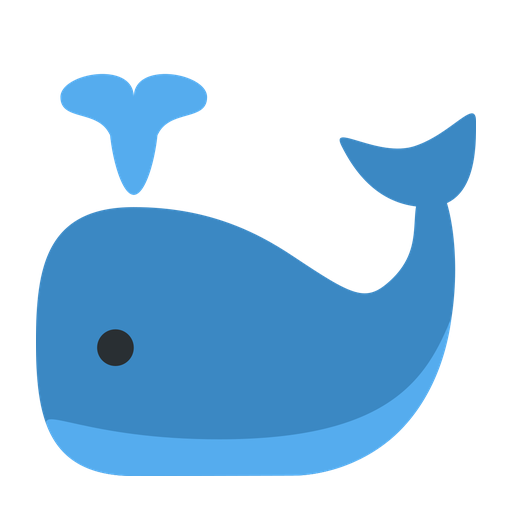
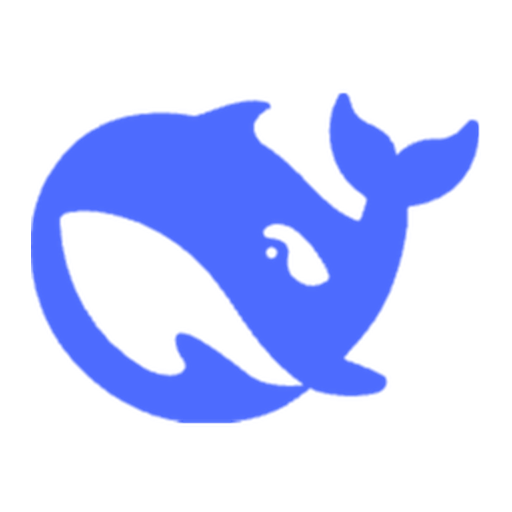
v0.6.2：换 DeepSeek 鲸鱼形象，修 hide 接口与启动露头

diff --git a/main.py b/main.py
@@ -154,7 +154,7 @@ ASSET_CANDIDATES = [
     os.path.join(HERE, "assets", "鱼搭子.png"),  # 本地自用
 ]
 
-VERSION = "0.6.1"
+VERSION = "0.6.2"
 BALL = 132          # 鲸鱼直径
 SAMPLE_RATE = 16000
 MAX_RECORD = 30.0
@@ -1536,6 +1536,9 @@ def start_reply_server(on_text, on_open_settings=None, on_show=None, on_hide=Non
             if path == "/show" and on_show:
                 on_show()
                 return self._send({"ok": True, "说": "挂件出来了"})
+            if path == "/hide" and on_hide:
+                on_hide()
+                return self._send({"ok": True, "说": "挂件藏起来了"})
             n = int(self.headers.get("content-length") or 0)
             raw = self.rfile.read(n) if n else b"{}"
             try:
@@ -1670,7 +1673,9 @@ def main():
         threading.Thread(target=run_test, daemon=True).start()
 
     whale.apply_display_mode(os.environ.get("FISH_TEST_MODE") or whale.settings.get("形象", "image"))
-    if not whale.settings.get("挂件", True):
+    if whale.settings.get("挂件", True):
+        whale.apply_widget_enabled(True)      # 显式露头一次，避免"配置勾了却没显示"
+    else:
         whale.apply_widget_enabled(False)
 
     if os.environ.get("FISH_TEST_REC"):

diff --git a/README.md b/README.md
@@ -15,7 +15,7 @@
 
 > 这是把「桌面上养一只会陪你说话的鲸鱼」在 macOS 上**从零做一套**：挂件（本仓库）+ 它自己的 DSH 插件（`plugin/`）。
 > 不依赖原版 `dsh-fish-buddy`，也不含它的任何代码或图片素材。
-> 形象用的是 [Twemoji](https://github.com/jdecked/twemoji) 的 🐳（CC-BY 4.0，见 [THIRD-PARTY.md](THIRD-PARTY.md)）。
+> 形象用的是 DeepSeek 的标志鲸鱼（**非官方项目**，商标归 DeepSeek；详见 [THIRD-PARTY.md](THIRD-PARTY.md)）。
 
 ```
         ┌─────────────────┐
@@ -174,7 +174,7 @@ macOS 不提供"查询所有 App 占用的快捷键"的接口，所以这层是*
 | 素材形象 | 极简圆点 |
 |---|---|
 | ![](assets/whale.png) | ![](assets/dot.png) |
-| 128px 的鲸鱼（Twemoji 🐳，CC-BY 4.0） | 36px 的纯色小圆点，**没有光晕**；说话时会轻微放大 |
+| 128px 的鲸鱼（DeepSeek 标志，见下方说明） | 36px 的纯色小圆点（DeepSeek 蓝 #4D6BFE），**没有光晕**；说话时会轻微放大 |
 
 想换成自己的图就覆盖 `assets/whale.png` / `assets/dot.png`；
 `:python tools/make_assets.py` 会重新生成圆点（鲸鱼需要 `cairosvg` 从 `assets/whale.svg` 转）。
@@ -279,8 +279,8 @@ assets/                  whale.png / dot.png / whale.svg（都是自己画的）
 
 本仓库的代码（挂件 + 插件）用 [MIT](LICENSE)。
 
-形象素材来自 [Twemoji](https://github.com/jdecked/twemoji) 🐳 `1f433`，
-版权归 Twitter, Inc and other contributors，按 [CC-BY 4.0](https://creativecommons.org/licenses/by/4.0/) 使用；
-我们对它做了缩放与留白。完整声明见 [THIRD-PARTY.md](THIRD-PARTY.md)。
+**形象不是 MIT**：`assets/whale.png` 是 DeepSeek 官方标志里的鲸鱼，商标与品牌归 DeepSeek 所有，
+本项目**不是官方项目**、也没有获得授权。详见 [THIRD-PARTY.md](THIRD-PARTY.md)。
+不想承担商标风险就换掉这张图（缺图会显示蓝底圆），代码不受影响。
 
 不含原项目 [dsh-fish-buddy](https://github.com/Yuuyuko-uu/dsh-fish-buddy)（插件许可 1.2）的任何代码与图片素材。

diff --git a/THIRD-PARTY.md b/THIRD-PARTY.md
@@ -1,13 +1,22 @@
 # 第三方素材与许可
 
-## assets/whale.png、assets/whale.svg —— Twemoji
+## assets/whale.png —— DeepSeek 标志（鲸鱼）
 
-- 来源：[Twemoji](https://github.com/jdecked/twemoji) 的 `1f433`（spouting whale）
-- 版权：Copyright 2020 Twitter, Inc and other contributors
-- 许可：[CC-BY 4.0](https://creativecommons.org/licenses/by/4.0/)
-- 我们对它做的改动：等比缩放并加了透明内边距（`tools/make_assets.py`）
+- 来源：DeepSeek 官方网站 `https://www.deepseek.com/favicon.ico`（官方品牌标志中的鲸鱼）
+- 权利：**DeepSeek 商标与品牌标识归杭州深度求索人工智能基础技术研究有限公司所有**，
+  **不属于本项目的 MIT 许可范围**，也不是可自由再分发的开源素材。
+- 我们只做了等比缩放与透明留白，没有改动图形本身。
+- 用途限制：本项目是**非官方的个人桌面挂件**，使用该图是把它当作"大肥鱼"的形象；
+  不代表 DeepSeek 官方，也没有获得授权或背书。
+- 如果你要再分发/商用：请自行确认商标使用合规，或把 `assets/whale.png` 换成你自己的图
+  （挂件在缺图时会显示蓝色圆底，代码不受影响）。
 
-CC-BY 4.0 要求署名与许可声明 —— 本文件与 README 的「许可与致谢」即为此。
+> 之前版本用的是 Twemoji 🐳（CC-BY 4.0）；如果你更想避开商标问题，可以从 git 历史里取回那一版，
+> 或直接放一张自己的图。
+
+## assets/whale.svg
+
+Twemoji 的原始 SVG 留档（CC-BY 4.0，同上），仅作参考。
 
 ## assets/dot.png
 

diff --git a/CHANGELOG.md b/CHANGELOG.md
@@ -1,5 +1,11 @@
 # 更新日志
 
+## v0.6.2 — 2026-11-08
+
+- 换形象：`assets/whale.png` 改用 **DeepSeek 标志鲸鱼**（非官方项目，商标归 DeepSeek，见 THIRD-PARTY.md）；圆点改成 DeepSeek 蓝
+- 修：`POST /hide` 之前没接上（只接了 GET），插件里的「藏起来」会落进回复分支——现在 露头/藏起来 都真的生效
+- 修：启动时显式「露头」一次，避免配置里勾着显示、实际却没画出来的情况
+
 ## v0.6.1 — 2026-11-07
 
 **修「有权限但录到全是 0」**
